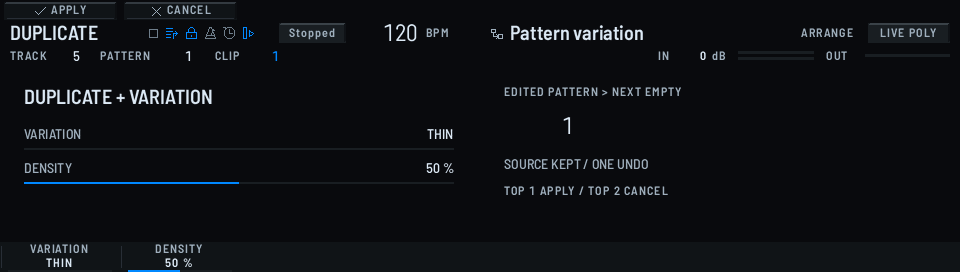
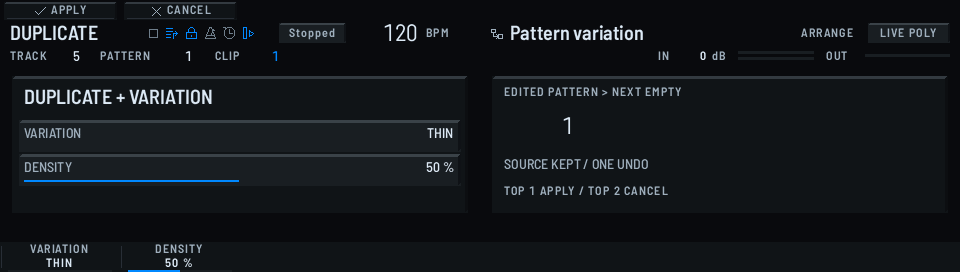
Carry the editing surface through duplicate and variation dialogs

Changed region(s): [[0.0, 0.2647, 1.0, 0.2941], [0.0, 0.5588, 0.5, 0.6765], [0.0, 0.4412, 0.5, 0.5294]]

diff --git a/src/ui_renderer_shell.cpp b/src/ui_renderer_shell.cpp
@@ -794,8 +794,9 @@ auto UiRenderer::composition_panel(const ProjectState& p,const Performance& perf
   label_band(0,24,214,432,19,perf.notice_error()?perf.notice_text():"TOP 1 APPLY / TOP 2 CANCEL",perf.notice_error()?theme.warn:theme.secondary,Font::Small);
   label_band(1,24,214,432,19,action==BlockAction::Move?"MOVE":action==BlockAction::Clear?"CLEAR":"COPY",theme.text,Font::Body);return;
  }
+ for(unsigned side=0;side<2;++side)relief(side,12,76,456,137,theme.surface);
  label(0,24,85,perf.composition_dialog()==2?"DUPLICATE SCENE":"DUPLICATE + VARIATION",theme.text,Font::Heading,430);
- for(unsigned i=0;i<(perf.composition_dialog()==2?1u:2u);++i){auto shown=formatted_knob(p,perf,i);value_row(0,24,122+int(i)*34,430,30,{perf.knob_label(i),shown.text,perf.knob_normalized(i),ui::ValueShape::Bar});}
+ for(unsigned i=0;i<(perf.composition_dialog()==2?1u:2u);++i){auto shown=formatted_knob(p,perf,i);relief(0,19,120+int(i)*34,442,32,theme.raised);value_row(0,24,122+int(i)*34,430,28,{perf.knob_label(i),shown.text,perf.knob_normalized(i),ui::ValueShape::Bar});}
  label(1,24,85,perf.composition_dialog()==2?"SELECTED SCENE > EMPTY SLOT":"EDITED PATTERN > NEXT EMPTY",theme.secondary,Font::Small,430);
  value(1,24,112,70,perf.composition_dialog()==2?perf.scene_duplicate_source()+1:p.active_pattern+1,theme.text,Font::Number,0);
  label(1,24,155,"SOURCE KEPT / ONE UNDO",theme.secondary,Font::Body,430);
